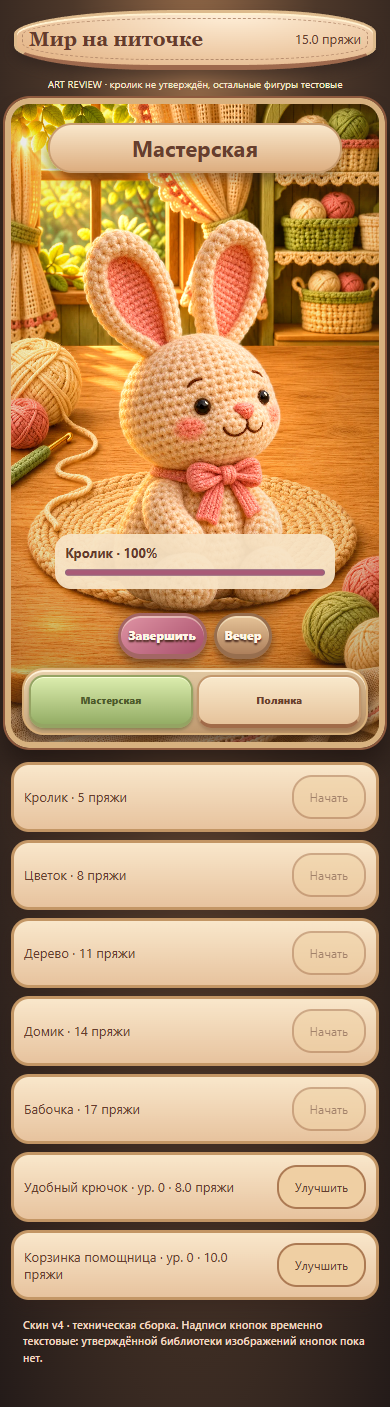
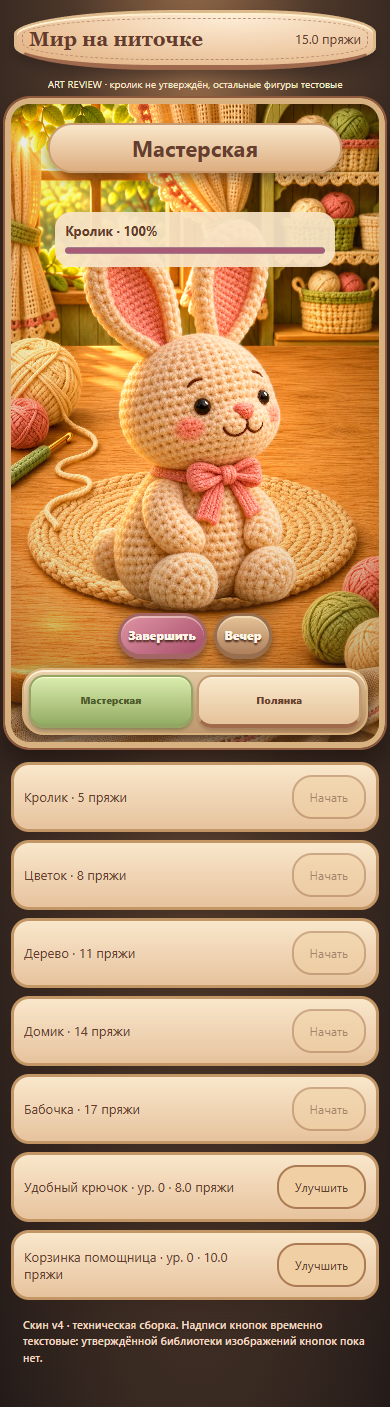
fix: keep craft progress above artwork and enlarge review rabbit

Changed region(s): [[0.1231, 0.3667, 0.8615, 0.4279], [0.1231, 0.1528, 0.8615, 0.2139]]

diff --git a/product/ui/shell.css b/product/ui/shell.css
@@ -1,1 +1,1 @@
-*{box-sizing:border-box}body{margin:0;font-family:system-ui,sans-serif;color:var(--textile-ink)}button{font:inherit;cursor:pointer;min-height:44px}button:disabled{opacity:.55;cursor:default}button:focus-visible{outline:3px solid white;outline-offset:2px}.app-header{display:flex;justify-content:space-between;align-items:center;gap:10px}.app-header strong{font-family:Georgia,serif;font-size:20px}.app-header span{font-size:13px;white-space:nowrap}.build-label{margin:7px 8px;color:#fff0d3;font-size:10px;text-align:center}.meadow-scene{position:relative;overflow:hidden}.meadow-back{position:absolute;inset:0;width:100%;height:100%;object-fit:cover}.section-title{position:absolute;left:10%;right:10%;top:3%;text-align:center;z-index:20}.section-title h1{font-size:22px;margin:0}.design-v4 #view-workshop .section-title{margin:0}.world-message{position:absolute;top:45%;left:10%;right:10%;padding:15px;background:#f6e0b8ec;border-radius:20px;text-align:center;font-weight:700}.meadow-actions{display:flex;justify-content:center}.button{padding:9px 16px;border-radius:20px;border:2px solid #ac7a53;background:#efcfa3;color:#633e2e}.tabs{grid-template-columns:repeat(2,minmax(0,1fr))!important}.placed-object{position:absolute;transform:translate(-50%,-50%);padding:0;border:0;background:transparent;min-width:44px;min-height:44px;aspect-ratio:4/5;filter:drop-shadow(0 7px 5px #35231755)}.placed-object img{width:100%;height:100%;object-fit:contain;pointer-events:none}.progress-panel{position:absolute;left:12%;right:12%;bottom:24%;display:grid;gap:5px;padding:10px;background:#f7e4c6ed;border-radius:16px;font-size:13px;font-weight:700;z-index:22}.progress-panel progress{width:100%;accent-color:#a95a77}.project-list{display:grid;gap:8px;margin-top:14px}.project-row{display:flex;align-items:center;justify-content:space-between;gap:8px;padding:10px;border-radius:18px;font-size:13px;min-width:0}.project-row span{overflow-wrap:anywhere}.project-row button{flex-shrink:0;font-size:12px}.notice{background:#fff0cf;padding:12px;border-radius:14px;font-size:13px}.feedback{position:absolute;left:15%;right:15%;top:25%;z-index:25;padding:12px;background:#fff0cf;border-radius:18px;text-align:center;animation:bob 1s ease-in-out infinite alternate}.help-line{line-height:1.5}.design-v4 #view-workshop .tabs{position:absolute;left:3%;right:3%;bottom:1%;margin:0}.design-v4 #view-workshop .meadow-scene{aspect-ratio:10/17.1}@keyframes bob{to{transform:translateY(-6px)}}@media(prefers-reduced-motion:reduce){.feedback{animation:none}}@media(max-width:380px){.app-header strong{font-size:17px}.app-header span{font-size:11px}}
+*{box-sizing:border-box}body{margin:0;font-family:system-ui,sans-serif;color:var(--textile-ink)}button{font:inherit;cursor:pointer;min-height:44px}button:disabled{opacity:.55;cursor:default}button:focus-visible{outline:3px solid white;outline-offset:2px}.app-header{display:flex;justify-content:space-between;align-items:center;gap:10px}.app-header strong{font-family:Georgia,serif;font-size:20px}.app-header span{font-size:13px;white-space:nowrap}.build-label{margin:7px 8px;color:#fff0d3;font-size:10px;text-align:center}.meadow-scene{position:relative;overflow:hidden}.meadow-back{position:absolute;inset:0;width:100%;height:100%;object-fit:cover}.section-title{position:absolute;left:10%;right:10%;top:3%;text-align:center;z-index:20}.section-title h1{font-size:22px;margin:0}.design-v4 #view-workshop .section-title{margin:0}.world-message{position:absolute;top:45%;left:10%;right:10%;padding:15px;background:#f6e0b8ec;border-radius:20px;text-align:center;font-weight:700}.meadow-actions{display:flex;justify-content:center}.button{padding:9px 16px;border-radius:20px;border:2px solid #ac7a53;background:#efcfa3;color:#633e2e}.tabs{grid-template-columns:repeat(2,minmax(0,1fr))!important}.placed-object{position:absolute;transform:translate(-50%,-50%);padding:0;border:0;background:transparent;min-width:44px;min-height:44px;aspect-ratio:4/5;filter:drop-shadow(0 7px 5px #35231755)}.placed-object img{width:100%;height:100%;object-fit:contain;pointer-events:none}.progress-panel{position:absolute;left:12%;right:12%;top:17%;bottom:auto;display:grid;gap:5px;padding:10px;background:#f7e4c6ed;border-radius:16px;font-size:13px;font-weight:700;z-index:22}.progress-panel progress{width:100%;accent-color:#a95a77}.project-list{display:grid;gap:8px;margin-top:14px}.project-row{display:flex;align-items:center;justify-content:space-between;gap:8px;padding:10px;border-radius:18px;font-size:13px;min-width:0}.project-row span{overflow-wrap:anywhere}.project-row button{flex-shrink:0;font-size:12px}.notice{background:#fff0cf;padding:12px;border-radius:14px;font-size:13px}.feedback{position:absolute;left:15%;right:15%;top:25%;z-index:25;padding:12px;background:#fff0cf;border-radius:18px;text-align:center;animation:bob 1s ease-in-out infinite alternate}.help-line{line-height:1.5}.design-v4 #view-workshop .tabs{position:absolute;left:3%;right:3%;bottom:1%;margin:0}.design-v4 #view-workshop .meadow-scene{aspect-ratio:10/17.1}@keyframes bob{to{transform:translateY(-6px)}}@media(prefers-reduced-motion:reduce){.feedback{animation:none}}@media(max-width:380px){.app-header strong{font-size:17px}.app-header span{font-size:11px}}
